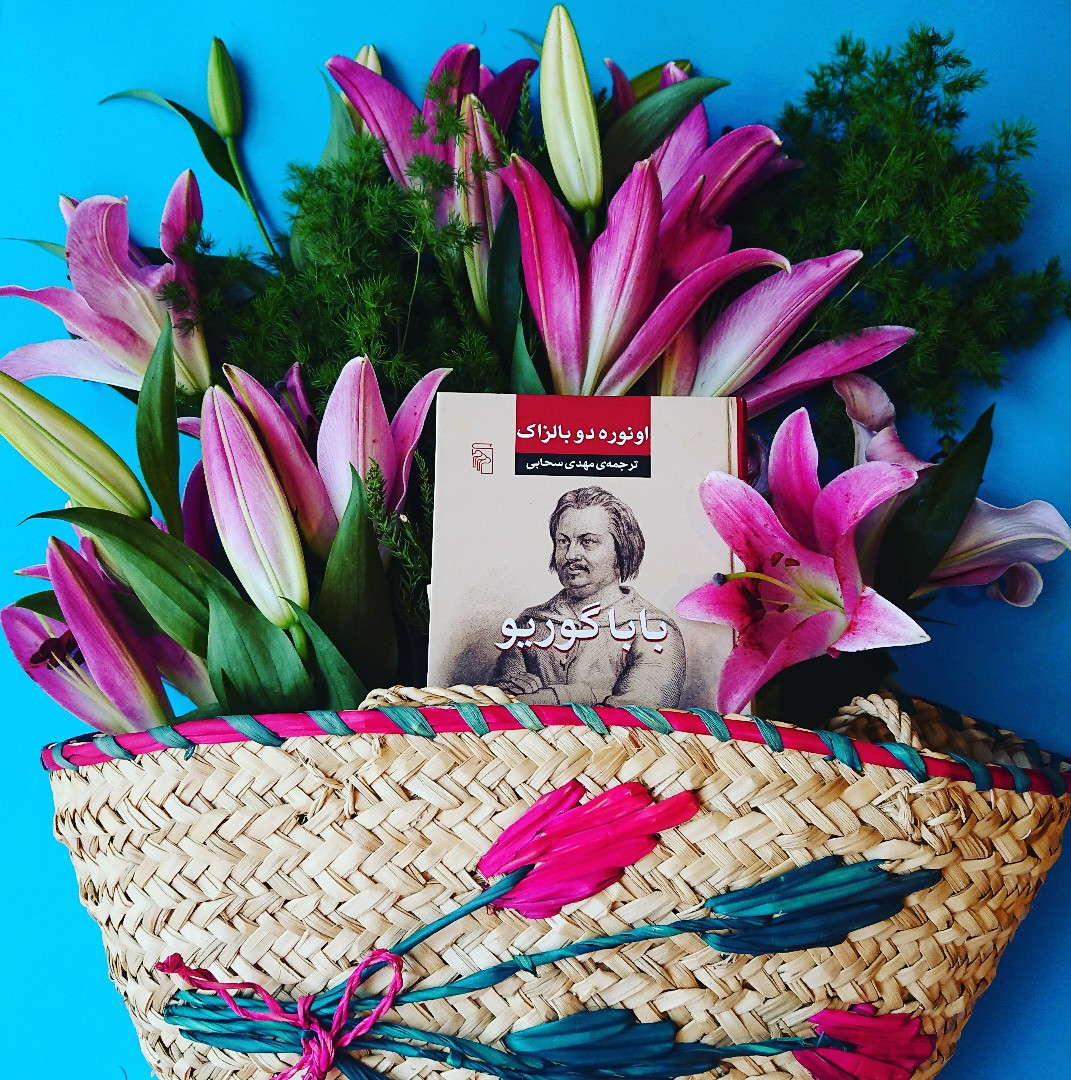
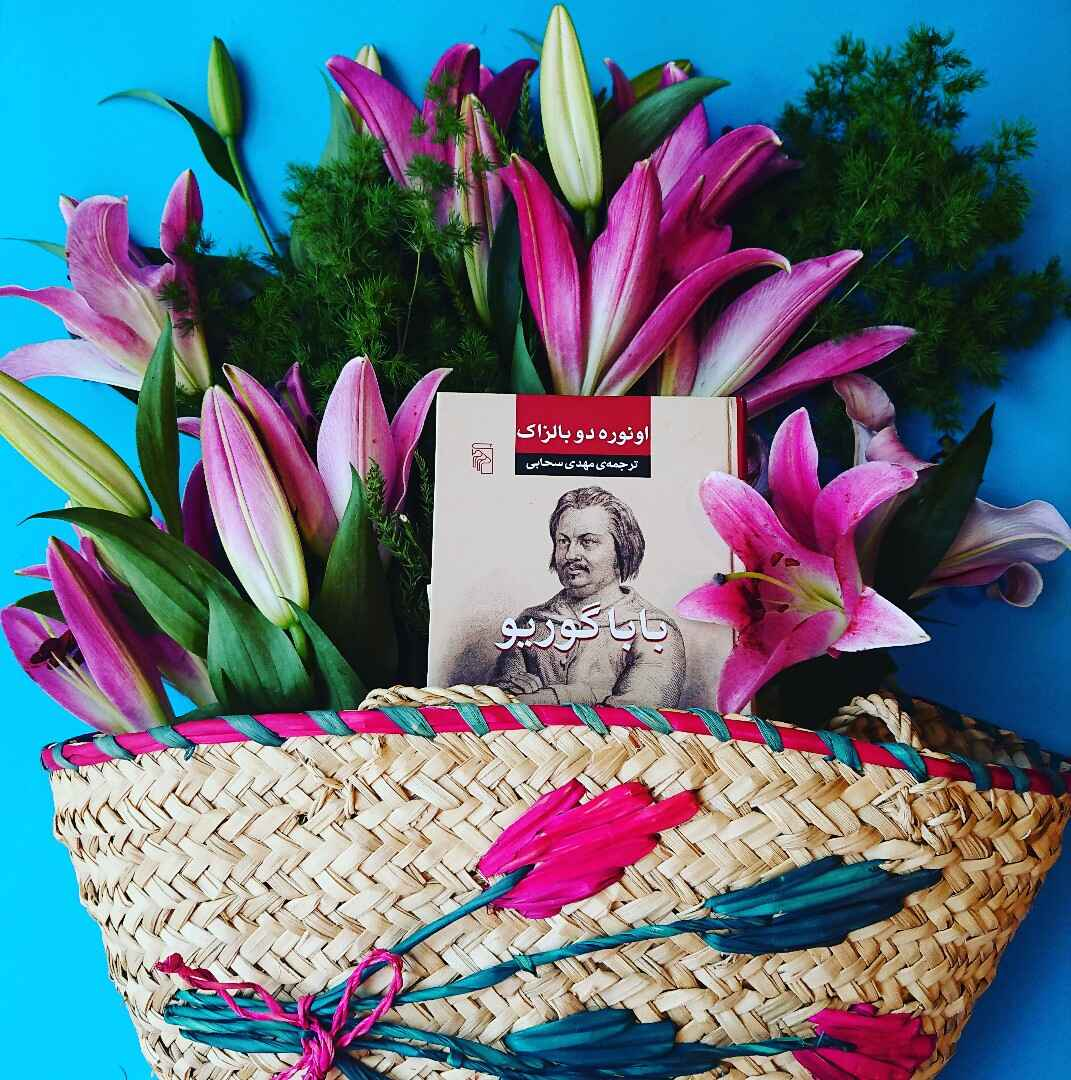
change Image format

diff --git a/index.html b/index.html
@@ -70,29 +70,29 @@
                     <p class="InfoBook">Père Goriot by Honoré de Balzac </p>
                 </div>
                 <div class="col-md-6">
-                    <img src="images/eteraf.png" class="img-fluid rounded" />
+                    <img src="images/eteraf.jpg" class="img-fluid rounded" />
                     <p class="InfoBook"> Eteraf by Leo Tolstoy </p>
         
                 </div>
             </div>
             <div class="row">
                 <div class="col-md-6">
-                    <img src="images/dastayefski.png" class="img-fluid rounded" />
+                    <img src="images/dastayefski.jpg" class="img-fluid rounded" />
                     <p class="InfoBook"> Fyodor Dostoevsky by susan li Anderson</p>
                 </div>
                 <div class="col-md-6">
-                    <img src="images/divane.png" class="img-fluid rounded" />
+                    <img src="images/divane.jpg" class="img-fluid rounded" />
                     <p class="InfoBook">The Diary of a madman by Nikolai Gogol</p>
                 </div>
             </div>
             <div class="row">
                 <div class="col-md-6">
-                    <img src="images/morshed.png" class="img-fluid rounded" />
+                    <img src="images/morshed.jpg" class="img-fluid rounded" />
                     <p class="InfoBook">The Master and Margarita by Mikhail Bulgakov
                     </p>
                 </div>
                 <div class="col-md-6">
-                    <img src="images/vangog.png" class="img-fluid rounded" />
+                    <img src="images/vangog.jpg" class="img-fluid rounded" />
                     <p class="InfoBook">Lust for Life by Irving Stone
                     </p>
                 </div>
